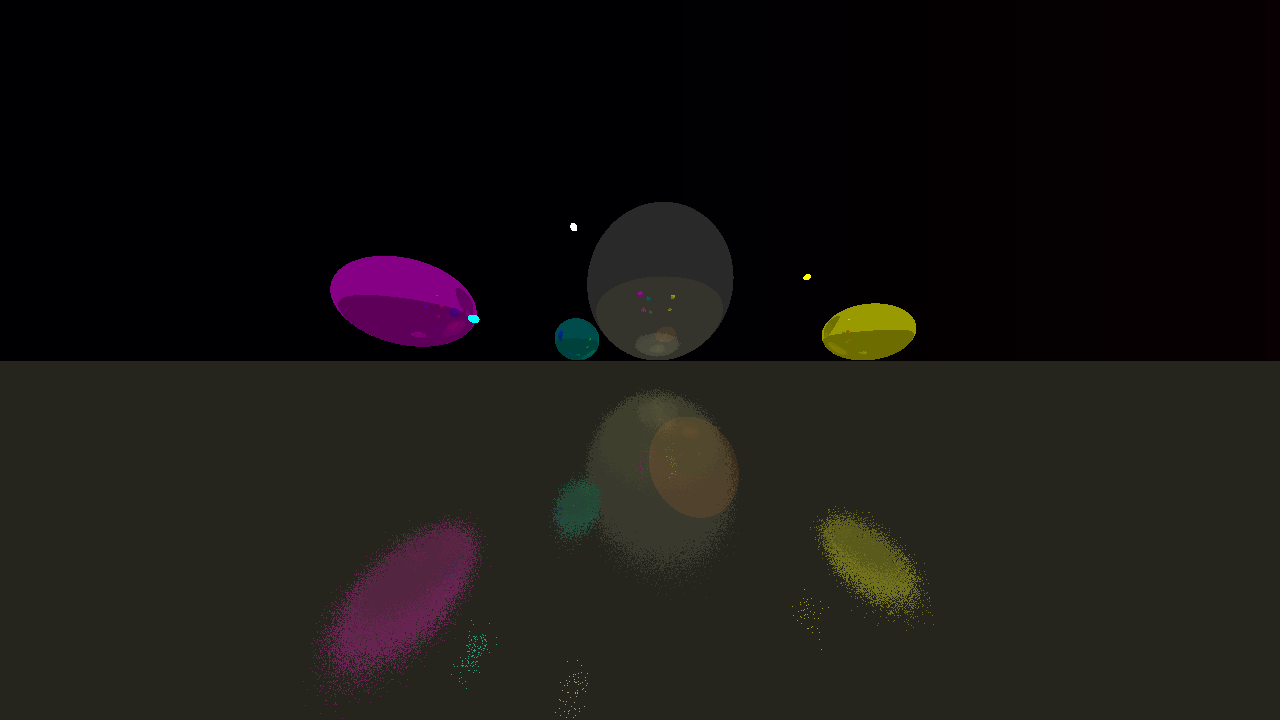
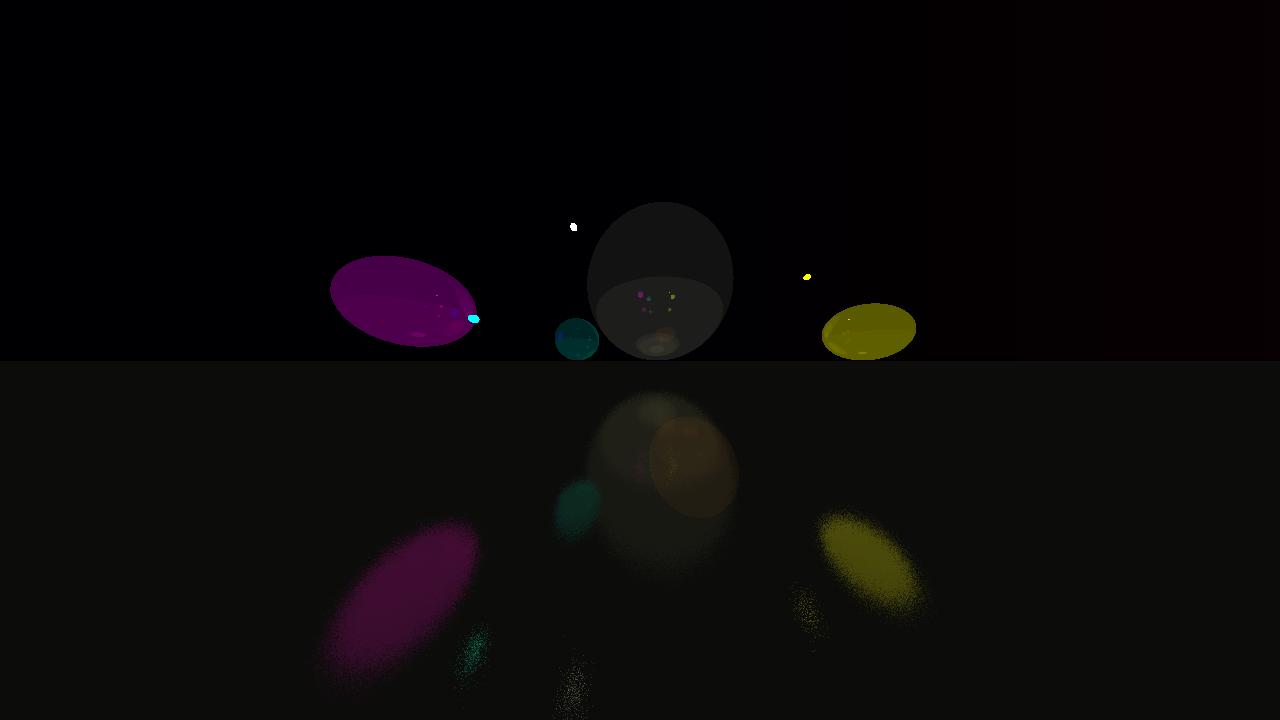
加入蒙特卡洛算法，去除部分噪点

diff --git a/ray_tracing/plane.py b/ray_tracing/plane.py
@@ -14,29 +14,29 @@ class Plane:
         self.transparency = transparency
 
     def get_color(self, p_r, d_r, things, t):
-        if t > 10:
+        if t > iterN:
             return [0, 0, 0], inf
         dn = d_r.dot(self.n)
         if dn != 0:
             t_ = (Vector3(self.x, self.y, self.z) - p_r).dot(self.n) / dn
             if t_ > 0:
                 p_next = p_r + d_r * t_
-                reflected_n = Vector3(self.n[0] + gauss(0, 50) / 10000 * self.roughness, self.n[1] + gauss(0, 50) / 10000 * self.roughness, self.n[2] + gauss(0, 50) / 10000 * self.roughness)
-                reflected_n = reflected_n.normalize()
-                reflected_d = d_r - 2 * (d_r.dot(reflected_n)) * reflected_n
-                color_reflected = self.c * 0
-                d_last = inf
-                for thing in things:
-                    if thing != self:
-                        c, distance = thing.get_color(p_next, reflected_d.normalize(), things, t + 1)
-                        if distance < d_last:
-                            color_reflected = c
-                            d_last = distance
-                            color_reflected = list(color_reflected)
+                color_reflected = [0, 0, 0]
+                for _ in range(mcN):
+                    reflected_n = Vector3(self.n[0] + gauss(0, 50) / 10000 * self.roughness, self.n[1] + gauss(0, 50) / 10000 * self.roughness, self.n[2] + gauss(0, 50) / 10000 * self.roughness)
+                    reflected_n = reflected_n.normalize()
+                    reflected_d = d_r - 2 * (d_r.dot(reflected_n)) * reflected_n
+                    d_last = inf
+                    for thing in things:
+                        if thing != self:
+                            c, distance = thing.get_color(p_next, reflected_d.normalize(), things, t + 1)
+                            if distance < d_last:
+                                d_last = distance
+                                lc = list(c)
+                                for i in range(3):
+                                    color_reflected[i] += lc[i] / mcN
                             
                 p_next = p_r + d_r * t_
-                through_n = self.n
-                through_n = through_n.normalize()
                 through_d = d_r
                 color_through = self.c * 0
                 d_last = inf

diff --git a/ray_tracing/ball.py b/ray_tracing/ball.py
@@ -13,7 +13,7 @@ class Ball:
         self.reflectivity = reflectivity
 
     def get_color(self, p_r, d_r, things, t):
-        if t > 10:
+        if t > iterN:
             return [0, 0, 0], inf
         
         a = Vector3(self.x, self.y, self.z) - p_r
@@ -35,20 +35,22 @@ class Ball:
             t_ = l + q
             
         reflected_p = p_r + t_ * d_r
-
-        n = Vector3(reflected_p - Vector3(self.x, self.y, self.z))
-        n = Vector3(n[0] + gauss(0, 50) / 10000 * self.roughness, n[1] + gauss(0, 50) / 10000 * self.roughness, n[2] + gauss(0, 50) / 10000 * self.roughness)
-        n = n.normalize()
-        reflected_d = d_r - 2 * (d_r.dot(n)) * n
-        color = Vector3(self.c) * (1 - self.reflectivity)
-        d_last = inf
-        for thing in things:
-            if thing != self:
-                c, distance = thing.get_color(reflected_p, reflected_d.normalize(), things, t + 1)
-                if distance < d_last:
-                    color = c
-                    d_last = distance
-                    color = list(color)
+        
+        color = [0, 0, 0]
+        for _ in range(mcN):
+            n = Vector3(reflected_p - Vector3(self.x, self.y, self.z))
+            n = Vector3(n[0] + gauss(0, 50) / 10000 * self.roughness, n[1] + gauss(0, 50) / 10000 * self.roughness, n[2] + gauss(0, 50) / 10000 * self.roughness)
+            n = n.normalize()
+            reflected_d = d_r - 2 * (d_r.dot(n)) * n
+            d_last = inf
+            for thing in things:
+                if thing != self:
+                    c, distance = thing.get_color(reflected_p, reflected_d.normalize(), things, t + 1)
+                    if distance < d_last:
+                        d_last = distance
+                        lc = list(c)
+                        for i in range(3):
+                            color[i] += lc[i] / mcN
                 
         for i in range(3):
             color[i] = color[i] / 255 * self.c[i] * self.reflectivity + self.c[i] * (1 - self.reflectivity) * ENV

diff --git a/ray_tracing/ray_tracing.py b/ray_tracing/ray_tracing.py
@@ -12,7 +12,7 @@ pygame.init()
 length = 1280
 height = 720
 camera = Camera(0, 0, 0)
-plane = Plane(0, 3, 0, Vector3(0, 1, 0), Vector3(255, 255, 200), 3, 0.7, 0.3)
+plane = Plane(0, 3, 0, Vector3(0, 1, 0), Vector3(255, 255, 200), 3, 0.9, 0.3)
 lightsource1 = LightSource(6, -3, 6, 0.1, (255, 255, 0))
 lightsource2 = LightSource(-2, -4, 5, 0.1, (255, 255, 255))
 lightsource3 = LightSource(-4, -1, 4, 0.1, (0, 255, 255))

diff --git a/ray_tracing/lightsource.py b/ray_tracing/lightsource.py
@@ -10,9 +10,6 @@ class LightSource:
         self.c = c
 
     def get_color(self, p_r, d_r, things, t):
-        if t > 10:
-            return [0, 0, 0], inf
-        
         a = Vector3(self.x, self.y, self.z) - p_r
         
         l = d_r.dot(a)

diff --git a/ray_tracing/others.py b/ray_tracing/others.py
@@ -7,3 +7,6 @@ class INF:
 inf = INF()
 
 ENV = 0.7
+
+mcN = 5
+iterN = 5
